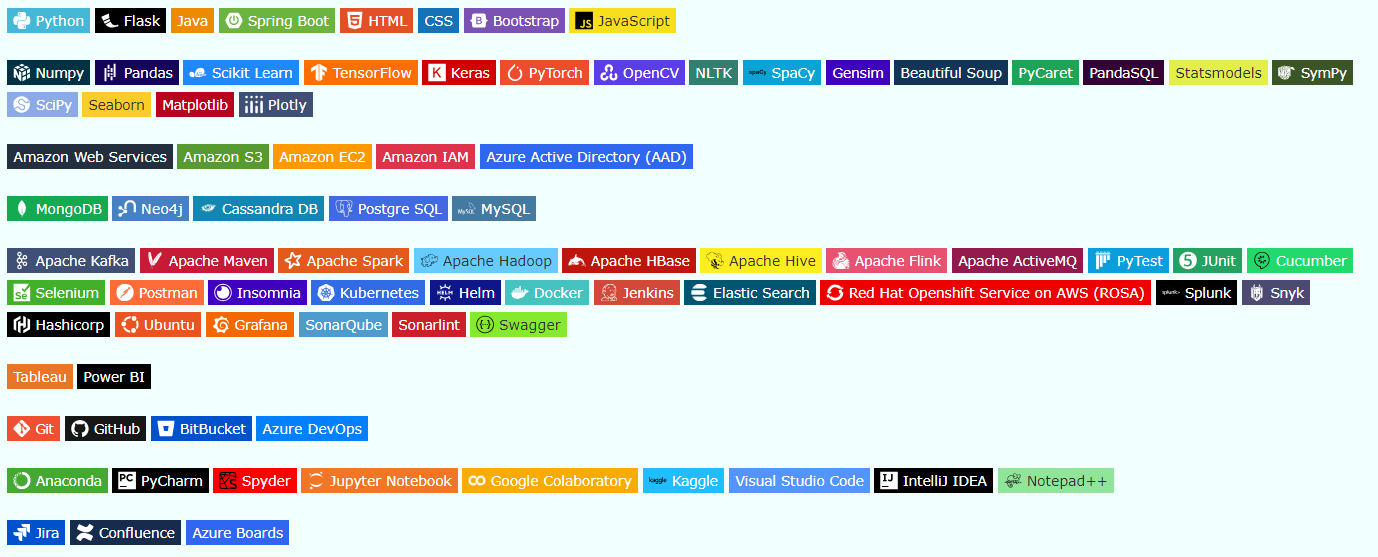
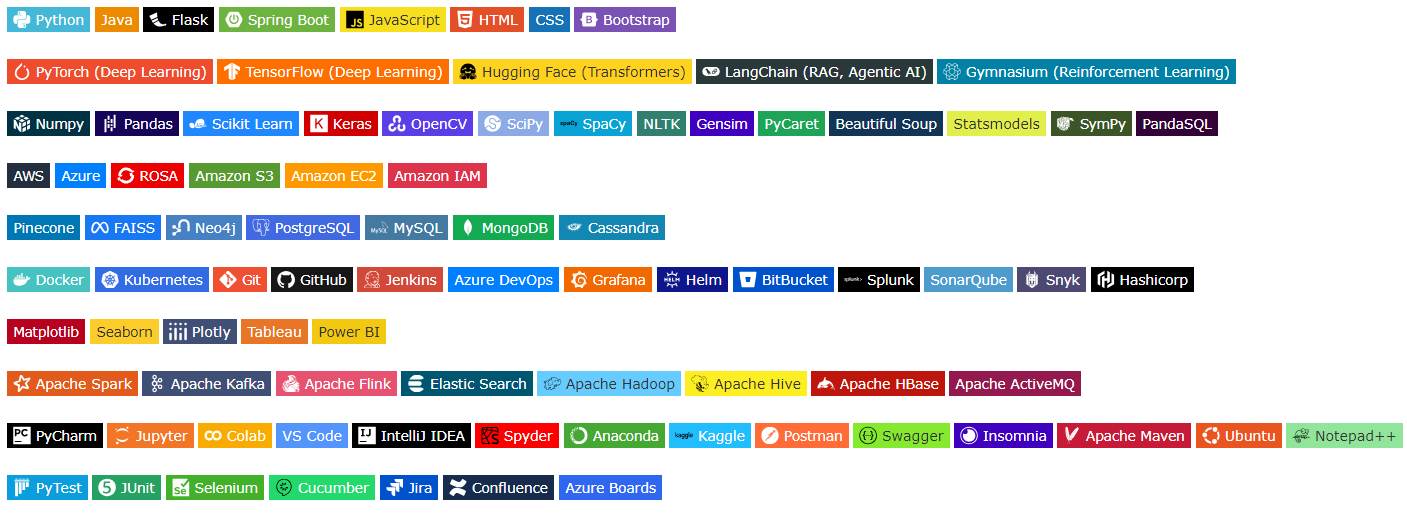
[patch] Updated skills and README.md.

diff --git a/documents/Tools And Technologies.md b/documents/Tools And Technologies.md
@@ -1,101 +1,127 @@
-<h2 align="left">Tools and Technologies</h2>
+<h2 align="left">Tools & Technologies</h2>
+
+[//]: # (<h4 align="left">Programming Languages & Frameworks</h4>)
 <p>
     <img alt="Python" src="https://img.shields.io/badge/-Python-45b8d8?style=flat-square&logo=python&logoColor=white" />
-    <img alt="Flask" src="https://img.shields.io/badge/-Flask-000000?style=flat-square&logo=flask&logoColor=white" />
     <img alt="Java" src="https://img.shields.io/badge/-Java-ED8B00?style=flat-square&logo=java&logoColor=white" />
+    <img alt="Flask" src="https://img.shields.io/badge/-Flask-000000?style=flat-square&logo=flask&logoColor=white" />
     <img alt="Spring Boot" src="https://img.shields.io/badge/-Spring_Boot-6DB33F?style=flat-square&logo=spring-boot&logoColor=white" />
-    <img alt="Hyper Text Markup Language (HTML)" src="https://img.shields.io/badge/-HTML-E34F26?style=flat-square&logo=html5&logoColor=white" />
-    <img alt="Cascading Style Sheets (CSS)" src="https://img.shields.io/badge/-CSS-1572B6?style=flat-square&logo=css3&logoColor=white" />
-    <img alt="Bootstrap" src="https://img.shields.io/badge/-Bootstrap-7952B3?style=flat-square&logo=bootstrap&logoColor=white" />
     <img alt="JavaScript (JS)" src="https://img.shields.io/badge/-JavaScript-F7DF1E?style=flat-square&logo=javascript&logoColor=black" />
+    <img alt="HTML" src="https://img.shields.io/badge/-HTML-E34F26?style=flat-square&logo=html5&logoColor=white" />
+    <img alt="CSS" src="https://img.shields.io/badge/-CSS-1572B6?style=flat-square&logo=css3&logoColor=white" />
+    <img alt="Bootstrap" src="https://img.shields.io/badge/-Bootstrap-7952B3?style=flat-square&logo=bootstrap&logoColor=white" />
 </p>
+
+[//]: # (<h4 align="left">Core AI/ML Frameworks</h4>)
+<p>
+    <img alt="PyTorch" src="https://img.shields.io/badge/-PyTorch_(Deep_Learning)-EE4C2C?style=flat-square&logo=pytorch&logoColor=white" />
+    <img alt="TensorFlow" src="https://img.shields.io/badge/-TensorFlow_(Deep_Learning)-FF6F00?style=flat-square&logo=tensorflow&logoColor=white" />
+    <img alt="Hugging Face" src="https://img.shields.io/badge/-Hugging_Face_(Transformers)-FFD21E?style=flat-square&logo=hugging-face&logoColor=black" />
+    <img alt="LangChain" src="https://img.shields.io/badge/-LangChain_(RAG,_Agentic_AI)-2A3839?style=flat-square&logo=langchain&logoColor=white" />
+    <img alt="OpenAI Gymnasium" src="https://img.shields.io/badge/-Gymnasium_(Reinforcement_Learning)-0081A5?style=flat-square&logo=openaigym&logoColor=white" />
+</p>
+
+[//]: # (<h4 align="left">AI/ML Libraries</h4>)
 <p>
     <img alt="Numpy" src="https://img.shields.io/badge/-Numpy-013243?style=flat-square&logo=numpy&logoColor=white" />
     <img alt="Pandas" src="https://img.shields.io/badge/-Pandas-150458?style=flat-square&logo=pandas&logoColor=white" />
     <img alt="Scikit-Learn" src="https://img.shields.io/badge/-Scikit_Learn-2088FF?style=flat-square&logo=scikit-learn&logoColor=white" />
-    <img alt="TensorFlow" src="https://img.shields.io/badge/-TensorFlow-FF6F00?style=flat-square&logo=tensorflow&logoColor=white" />
     <img alt="Keras" src="https://img.shields.io/badge/-Keras-D00000?style=flat-square&logo=keras&logoColor=white" />
-    <img alt="PyTorch" src="https://img.shields.io/badge/-PyTorch-EE4C2C?style=flat-square&logo=pytorch&logoColor=white" />
     <img alt="OpenCV" src="https://img.shields.io/badge/-OpenCV-5C3EE8?style=flat-square&logo=opencv&logoColor=white" />
-    <img alt="Natural Language Toolkit (NLTK)" src="https://img.shields.io/badge/-NLTK-317F6F?style=flat-square&logo=nltk&logoColor=white" />
+    <img alt="SciPy" src="https://img.shields.io/badge/-SciPy-8CAAE6?style=flat-square&logo=scipy&logoColor=white" />
     <img alt="SpaCy" src="https://img.shields.io/badge/-SpaCy-09A3D5?style=flat-square&logo=spacy&logoColor=black" />
+    <img alt="NLTK" src="https://img.shields.io/badge/-NLTK-317F6F?style=flat-square&logo=nltk&logoColor=white" />
     <img alt="Gensim" src="https://img.shields.io/badge/-Gensim-4000BF?style=flat-square&logo=gensim&logoColor=white" />
-    <img alt="Beautiful Soup" src="https://img.shields.io/badge/-Beautiful_Soup-123456?style=flat-square&logo=beautifulsoup&logoColor=white" />
     <img alt="PyCaret" src="https://img.shields.io/badge/-PyCaret-1DA456?style=flat-square&logo=pycaret&logoColor=white" />
-    <img alt="PandaSQL" src="https://img.shields.io/badge/-PandaSQL-330338?style=flat-square&logo=pandasql&logoColor=white" />
+    <img alt="Beautiful Soup" src="https://img.shields.io/badge/-Beautiful_Soup-123456?style=flat-square&logo=beautifulsoup&logoColor=white" />
     <img alt="Statsmodels" src="https://img.shields.io/badge/-Statsmodels-E2EE4A?style=flat-square&logo=statsmodels&logoColor=white" />
     <img alt="SymPy" src="https://img.shields.io/badge/-SymPy-3B5526?style=flat-square&logo=sympy&logoColor=white" />
-    <img alt="SciPy" src="https://img.shields.io/badge/-SciPy-8CAAE6?style=flat-square&logo=scipy&logoColor=white" />
-    <img alt="Seaborn" src="https://img.shields.io/badge/-Seaborn-FCCD2A?style=flat-square&logo=seaborn&logoColor=white" />
-    <img alt="Matplotlib" src="https://img.shields.io/badge/-Matplotlib-B8001F?style=flat-square&logo=matplotlib&logoColor=white" />
-    <img alt="Plotly" src="https://img.shields.io/badge/-Plotly-3F4F75?style=flat-square&logo=plotly&logoColor=white" />
+    <img alt="PandaSQL" src="https://img.shields.io/badge/-PandaSQL-330338?style=flat-square&logo=pandasql&logoColor=white" />
 </p>
+
+[//]: # (<h4 align="left">Cloud</h4>)
 <p>
-    <img alt="Amazon Web Services (AWS)" src="https://img.shields.io/badge/-Amazon_Web_Services-232F3E?style=flat-square&logo=amazon-web-services&logoColor=white" />
+    <img alt="Amazon Web Services (AWS)" src="https://img.shields.io/badge/-AWS-232F3E?style=flat-square&logo=amazon-web-services&logoColor=white" />
+    <img alt="Azure" src="https://img.shields.io/badge/-Azure-007fff?style=flat-square&logo=microsoftazure&logoColor=white" />
+    <img alt="Red Hat Openshift Service on AWS (ROSA)" src="https://img.shields.io/badge/-ROSA-EE0000?style=flat-square&logo=redhatopenshift&logoColor=white" />
     <img alt="Amazon S3" src="https://img.shields.io/badge/-Amazon_S3-569A31?style=flat-square&logo=amazons3&logoColor=white"/>
     <img alt="Amazon EC2" src="https://img.shields.io/badge/-Amazon_EC2-FF9900?style=flat-square&logo=amazonec2&logoColor=black"/>
     <img alt="Amazon IAM" src="https://img.shields.io/badge/-Amazon_IAM-DD344C?style=flat-square&logo=amazoniam&logoColor=black"/>
-    <img alt="Azure Active Directory (AAD)" src="https://img.shields.io/badge/-Azure_Active_Directory_(AAD)-3067F0?style=flat-square&logo=azureactivedirectory&logoColor=black"/>
 </p>
+
+[//]: # (<h4 align="left">Databases</h4>)
 <p>
-    <img alt="MongoDB" src="https://img.shields.io/badge/-MongoDB-13aa52?style=flat-square&logo=mongodb&logoColor=white" />
+    <img alt="Pinecone" src="https://img.shields.io/badge/-Pinecone-0077B5?style=flat-square&logo=pinecone&logoColor=white" />
+    <img alt="FAISS" src="https://img.shields.io/badge/-FAISS-1877F2?style=flat-square&logo=meta&logoColor=white" />
     <img alt="Neo4j" src="https://img.shields.io/badge/-Neo4j-4581C3?style=flat-square&logo=neo4j&logoColor=white" />
-    <img alt="Apache Cassandra DB" src="https://img.shields.io/badge/-Cassandra_DB-1287B1?style=flat-square&logo=apachecassandra&logoColor=white" />
-    <img alt="PostgreSQL" src="https://img.shields.io/badge/-Postgre_SQL-4169E1?style=flat-square&logo=postgresql&logoColor=white" />
+    <img alt="PostgreSQL" src="https://img.shields.io/badge/-PostgreSQL-4169E1?style=flat-square&logo=postgresql&logoColor=white" />
     <img alt="MySQL" src="https://img.shields.io/badge/-MySQL-4479A1?style=flat-square&logo=mysql&logoColor=white" />
+    <img alt="MongoDB" src="https://img.shields.io/badge/-MongoDB-13aa52?style=flat-square&logo=mongodb&logoColor=white" />
+    <img alt="Apache Cassandra" src="https://img.shields.io/badge/-Cassandra-1287B1?style=flat-square&logo=apachecassandra&logoColor=white" />
 </p>
+
+[//]: # (<h4 align="left">DevOps & Observability</h4>)
 <p>
-    <img alt="Apache Kafka" src="https://img.shields.io/badge/-Apache_Kafka-3F4F75?style=flat-square&logo=apache-kafka&logoColor=white" />
-    <img alt="Apache Maven" src="https://img.shields.io/badge/-Apache_Maven-C71A36?style=flat-square&logo=apache-maven&logoColor=white" />
-    <img alt="Apache Spark" src="https://img.shields.io/badge/-Apache_Spark-E25A1C?style=flat-square&logo=apachespark&logoColor=white" />
-    <img alt="Apache Hadoop" src="https://img.shields.io/badge/-Apache_Hadoop-66CCFF?style=flat-square&logo=apachehadoop&logoColor=black" />
-    <img alt="Apache HBase" src="https://img.shields.io/badge/-Apache_HBase-BE160C?style=flat-square&logo=apachehbase&logoColor=white" />
-    <img alt="Apache Hive" src="https://img.shields.io/badge/-Apache_Hive-FDEE21?style=flat-square&logo=apachehive&logoColor=black" />
-    <img alt="Apache Flink" src="https://img.shields.io/badge/-Apache_Flink-E6526F?style=flat-square&logo=apacheflink&logoColor=white" />
-    <img alt="Apache Active MQ" src="https://img.shields.io/badge/-Apache_ActiveMQ-941a4d?style=flat-square&logo=apacheactivemq&logoColor=white" />
-    <img alt="PyTest" src="https://img.shields.io/badge/-PyTest-0A9EDC?style=flat-square&logo=pytest&logoColor=white" />
-    <img alt="JUnit" src="https://img.shields.io/badge/-JUnit-25A162?style=flat-square&logo=junit5&logoColor=white" />
-    <img alt="Cucumber" src="https://img.shields.io/badge/-Cucumber-23D96C?style=flat-square&logo=cucumber&logoColor=black" />
-    <img alt="Selenium" src="https://img.shields.io/badge/-Selenium-43B02A?style=flat-square&logo=selenium&logoColor=white" />
-    <img alt="Postman" src="https://img.shields.io/badge/-Postman-FF6C37?style=flat-square&logo=postman&logoColor=white" />
-    <img alt="Insomnia" src="https://img.shields.io/badge/-Insomnia-4000BF?style=flat-square&logo=insomnia&logoColor=white" />
-    <img alt="Kubernetes" src="https://img.shields.io/badge/-Kubernetes-326CE5?style=flat-square&logo=kubernetes&logoColor=white" />
-    <img alt="Helm" src="https://img.shields.io/badge/-Helm-0F1689?style=flat-square&logo=helm&logoColor=white" />
     <img alt="Docker" src="https://img.shields.io/badge/-Docker-46c2c1?style=flat-square&logo=docker&logoColor=white" />
-    <img alt="Jenkins" src="https://img.shields.io/badge/-Jenkins-D24939?style=flat-square&logo=jenkins&logoColor=white" />
-    <img alt="Elastic Search" src="https://img.shields.io/badge/-Elastic_Search-005571?style=flat-square&logo=elasticsearch&logoColor=white" />
-    <img alt="Red Hat Openshift Service on AWS (ROSA)" src="https://img.shields.io/badge/-Red_Hat_Openshift_Service_on_AWS_(ROSA)-EE0000?style=flat-square&logo=redhatopenshift&logoColor=white" />
-    <img alt="Splunk" src="https://img.shields.io/badge/-Splunk-000000?style=flat-square&logo=splunk&logoColor=white" />
-    <img alt="Snyk" src="https://img.shields.io/badge/-Snyk-4C4A73?style=flat-square&logo=snyk&logoColor=white" />
-    <img alt="Hashicorp" src="https://img.shields.io/badge/-Hashicorp-000000?style=flat-square&logo=hashicorp&logoColor=white" />
-    <img alt="Ubuntu" src="https://img.shields.io/badge/-Ubuntu-E95420?style=flat-square&logo=ubuntu&logoColor=white" />
-    <img alt="Grafana" src="https://img.shields.io/badge/-Grafana-F46800?style=flat-square&logo=grafana&logoColor=white" />
-    <img alt="SonarQube" src="https://img.shields.io/badge/-SonarQube-4E9BCD?style=flat-square&logo=sonarqube&logoColor=white" />
-    <img alt="Sonarlint" src="https://img.shields.io/badge/-Sonarlint-CB2029?style=flat-square&logo=sonarlint&logoColor=white" />
-    <img alt="Swagger" src="https://img.shields.io/badge/-Swagger-85EA2D?style=flat-square&logo=swagger&logoColor=black" />
-</p>
-<p>
-    <img alt="Tableau" src="https://img.shields.io/badge/-Tableau-E97627?style=flat-square&logo=tableau&logoColor=white" />
-    <img alt="Power BI" src="https://img.shields.io/badge/-Power_BI-000000?style=flat-square&logo=powerbi&logoColor=white" />
-</p>
-<p>
+    <img alt="Kubernetes" src="https://img.shields.io/badge/-Kubernetes-326CE5?style=flat-square&logo=kubernetes&logoColor=white" />
     <img alt="Git" src="https://img.shields.io/badge/-Git-F05032?style=flat-square&logo=git&logoColor=white" />
     <img alt="GitHub" src="https://img.shields.io/badge/-GitHub-181717?style=flat-square&logo=github&logoColor=white" />
-    <img alt="BitBucket" src="https://img.shields.io/badge/-BitBucket-0052CC?style=flat-square&logo=bitbucket&logoColor=white" />
+    <img alt="Jenkins" src="https://img.shields.io/badge/-Jenkins-D24939?style=flat-square&logo=jenkins&logoColor=white" />
     <img alt="Azure DevOps (ADO)" src="https://img.shields.io/badge/-Azure_DevOps-007fff?style=flat-square&logo=azuredevops&logoColor=white" />
+    <img alt="Grafana" src="https://img.shields.io/badge/-Grafana-F46800?style=flat-square&logo=grafana&logoColor=white" />
+    <img alt="Helm" src="https://img.shields.io/badge/-Helm-0F1689?style=flat-square&logo=helm&logoColor=white" />
+    <img alt="BitBucket" src="https://img.shields.io/badge/-BitBucket-0052CC?style=flat-square&logo=bitbucket&logoColor=white" />
+    <img alt="Splunk" src="https://img.shields.io/badge/-Splunk-000000?style=flat-square&logo=splunk&logoColor=white" />
+    <img alt="SonarQube" src="https://img.shields.io/badge/-SonarQube-4E9BCD?style=flat-square&logo=sonarqube&logoColor=white" />
+    <img alt="Snyk" src="https://img.shields.io/badge/-Snyk-4C4A73?style=flat-square&logo=snyk&logoColor=white" />
+    <img alt="Hashicorp" src="https://img.shields.io/badge/-Hashicorp-000000?style=flat-square&logo=hashicorp&logoColor=white" />
 </p>
+
+[//]: # (<h4 align="left">Visualisation</h4>)
 <p>
-    <img alt="Anaconda" src="https://img.shields.io/badge/-Anaconda-44A833?style=flat-square&logo=anaconda&logoColor=white" />
+    <img alt="Matplotlib" src="https://img.shields.io/badge/-Matplotlib-B8001F?style=flat-square&logo=matplotlib&logoColor=white" />
+    <img alt="Seaborn" src="https://img.shields.io/badge/-Seaborn-FCCD2A?style=flat-square&logo=seaborn&logoColor=white" />
+    <img alt="Plotly" src="https://img.shields.io/badge/-Plotly-3F4F75?style=flat-square&logo=plotly&logoColor=white" />
+    <img alt="Tableau" src="https://img.shields.io/badge/-Tableau-E97627?style=flat-square&logo=tableau&logoColor=white" />
+    <img alt="Power BI" src="https://img.shields.io/badge/-Power_BI-F2C811?style=flat-square&logo=powerbi&logoColor=black" />
+</p>
+
+[//]: # (<h4 align="left">Big Data & Streaming</h4>)
+<p>
+    <img alt="Apache Spark" src="https://img.shields.io/badge/-Apache_Spark-E25A1C?style=flat-square&logo=apachespark&logoColor=white" />
+    <img alt="Apache Kafka" src="https://img.shields.io/badge/-Apache_Kafka-3F4F75?style=flat-square&logo=apache-kafka&logoColor=white" />
+    <img alt="Apache Flink" src="https://img.shields.io/badge/-Apache_Flink-E6526F?style=flat-square&logo=apacheflink&logoColor=white" />
+    <img alt="Elastic Search" src="https://img.shields.io/badge/-Elastic_Search-005571?style=flat-square&logo=elasticsearch&logoColor=white" />
+    <img alt="Apache Hadoop" src="https://img.shields.io/badge/-Apache_Hadoop-66CCFF?style=flat-square&logo=apachehadoop&logoColor=black" />
+    <img alt="Apache Hive" src="https://img.shields.io/badge/-Apache_Hive-FDEE21?style=flat-square&logo=apachehive&logoColor=black" />
+    <img alt="Apache HBase" src="https://img.shields.io/badge/-Apache_HBase-BE160C?style=flat-square&logo=apachehbase&logoColor=white" />
+    <img alt="Apache Active MQ" src="https://img.shields.io/badge/-Apache_ActiveMQ-941a4d?style=flat-square&logo=apacheactivemq&logoColor=white" />
+</p>
+
+[//]: # (<h4 align="left">Development Tools</h4>)
+<p>
     <img alt="PyCharm" src="https://img.shields.io/badge/-PyCharm-000000?style=flat-square&logo=pycharm&logoColor=white" />
-    <img alt="Spyder" src="https://img.shields.io/badge/-Spyder-FF0000?style=flat-square&logo=spyder-ide&logoColor=black" />
-    <img alt="Jupyter Notebook" src="https://img.shields.io/badge/-Jupyter_Notebook-F37626?style=flat-square&logo=jupyter&logoColor=white" />
-    <img alt="Google Colaboratory" src="https://img.shields.io/badge/-Google_Colaboratory-F9AB00?style=flat-square&logo=googlecolab&logoColor=white" />
-    <img alt="Kaggle" src="https://img.shields.io/badge/-Kaggle-20BEFF?style=flat-square&logo=kaggle&logoColor=black" />
-    <img alt="Visual Studio Code" src="https://img.shields.io/badge/-Visual_Studio_Code-5395FD?style=flat-square&logo=visual-studio-code&logoColor=white" />
+    <img alt="Jupyter Notebook" src="https://img.shields.io/badge/-Jupyter-F37626?style=flat-square&logo=jupyter&logoColor=white" />
+    <img alt="Google Colaboratory" src="https://img.shields.io/badge/-Colab-F9AB00?style=flat-square&logo=googlecolab&logoColor=white" />
+    <img alt="Visual Studio Code" src="https://img.shields.io/badge/-VS_Code-5395FD?style=flat-square&logo=visual-studio-code&logoColor=white" />
     <img alt="IntelliJ IDEA" src="https://img.shields.io/badge/-IntelliJ_IDEA-000000?style=flat-square&logo=intellij-idea&logoColor=white" />
+    <img alt="Spyder" src="https://img.shields.io/badge/-Spyder-FF0000?style=flat-square&logo=spyder-ide&logoColor=black" />
+    <img alt="Anaconda" src="https://img.shields.io/badge/-Anaconda-44A833?style=flat-square&logo=anaconda&logoColor=white" />
+    <img alt="Kaggle" src="https://img.shields.io/badge/-Kaggle-20BEFF?style=flat-square&logo=kaggle&logoColor=black" />
+    <img alt="Postman" src="https://img.shields.io/badge/-Postman-FF6C37?style=flat-square&logo=postman&logoColor=white" />
+    <img alt="Swagger" src="https://img.shields.io/badge/-Swagger-85EA2D?style=flat-square&logo=swagger&logoColor=black" />
+    <img alt="Insomnia" src="https://img.shields.io/badge/-Insomnia-4000BF?style=flat-square&logo=insomnia&logoColor=white" />
+    <img alt="Apache Maven" src="https://img.shields.io/badge/-Apache_Maven-C71A36?style=flat-square&logo=apache-maven&logoColor=white" />
+    <img alt="Ubuntu" src="https://img.shields.io/badge/-Ubuntu-E95420?style=flat-square&logo=ubuntu&logoColor=white" />
     <img alt="Notepad ++" src="https://img.shields.io/badge/-Notepad++-90E59A?style=flat-square&logo=notepadplusplus&logoColor=black" />
 </p>
+
+[//]: # (<h4 align="left">Testing & Collaboration</h4>)
 <p>
+    <img alt="PyTest" src="https://img.shields.io/badge/-PyTest-0A9EDC?style=flat-square&logo=pytest&logoColor=white" />
+    <img alt="JUnit" src="https://img.shields.io/badge/-JUnit-25A162?style=flat-square&logo=junit5&logoColor=white" />
+    <img alt="Selenium" src="https://img.shields.io/badge/-Selenium-43B02A?style=flat-square&logo=selenium&logoColor=white" />
+    <img alt="Cucumber" src="https://img.shields.io/badge/-Cucumber-23D96C?style=flat-square&logo=cucumber&logoColor=black" />
     <img alt="Jira" src="https://img.shields.io/badge/-Jira-0052CC?style=flat-square&logo=jira&logoColor=white" />
     <img alt="Confluence" src="https://img.shields.io/badge/-Confluence-172B4D?style=flat-square&logo=confluence&logoColor=white" />
     <img alt="Azure Boards" src="https://img.shields.io/badge/-Azure_Boards-3067F0?style=flat-square&logo=azureboards&logoColor=white" />

diff --git a/README.md b/README.md
@@ -12,35 +12,43 @@
 
 ## 🔭 What I'm Working On
 
-| Project                                                                                                     | Description                      |
-|:------------------------------------------------------------------------------------------------------------|:---------------------------------|
-| 🚀 [The-Neural-Nexus](https://github.com/AdityaSreevatsaK/The-Neural-Nexus)                                 | Cutting-Edge Deep Learning Lab   |
-| 🧠 [NLP-Navigator](https://github.com/AdityaSreevatsaK/NLP-Navigator)                                       | Real-World NLP Applications      |
-| 🎯 [Suggestify-RecommendationSystems](https://github.com/AdityaSreevatsaK/Suggestify-RecommendationSystems) | Scalable Recommender Engines     |
-| 📊 [DS-ML-Playground](https://github.com/AdityaSreevatsaK/DS-ML-Playground)                                 | Diverse ML Problem Solving       |
-| 🧪 [Applied-AI-Lab](https://github.com/AdityaSreevatsaK/Applied-AI-Lab)                                     | End-to-End AI/ML Experimentation |
-| ⚙ [PySpark-Pipeline](https://github.com/AdityaSreevatsaK/PySpark-Pipeline)                                 | Big Data ML with PySpark         |
-| 🍃 [MongoDB-Mechanics](https://github.com/AdityaSreevatsaK/MongoDB-Mechanics)                               | NoSQL Data Handling for ML       |
-| 🐍 [100DaysOfCode-Python](https://github.com/AdityaSreevatsaK/100DaysOfCode_Python)                         | Rapid Python Mastery Journey     |
-| 🛠 [Useful-Code-Snippets](https://github.com/AdityaSreevatsaK/Useful-Code-Snippets)                        | Production-Ready Code Boosters   |
+| Project                                                                                                     | Description                                                      |
+|:------------------------------------------------------------------------------------------------------------|:-----------------------------------------------------------------|
+| 🤖 [RAG-Foundry](https://github.com/AdityaSreevatsaK/RAG-Foundry)                                           | Forging practical Retrieval-Augmented Generation (RAG) pipelines |
+| 🚀 [The-Neural-Nexus](https://github.com/AdityaSreevatsaK/The-Neural-Nexus)                                 | Cutting-Edge Deep Learning Lab                                   |
+| 🧠 [NLP-Navigator](https://github.com/AdityaSreevatsaK/NLP-Navigator)                                       | Real-World NLP Applications                                      |
+| ⚙ [PySpark-Pipeline](https://github.com/AdityaSreevatsaK/PySpark-Pipeline)                                 | Big Data ML with PySpark                                         |
+| 🎯 [Suggestify-RecommendationSystems](https://github.com/AdityaSreevatsaK/Suggestify-RecommendationSystems) | Scalable Recommender Engines                                     |
+| 🧪 [Applied-AI-Lab](https://github.com/AdityaSreevatsaK/Applied-AI-Lab)                                     | End-to-End AI/ML Experimentation                                 |
+| 📊 [DS-ML-Playground](https://github.com/AdityaSreevatsaK/DS-ML-Playground)                                 | Diverse ML Problem Solving                                       |
+| 🍃 [MongoDB-Mechanics](https://github.com/AdityaSreevatsaK/MongoDB-Mechanics)                               | NoSQL Data Handling for ML                                       |
+| 🐍 [100DaysOfCode-Python](https://github.com/AdityaSreevatsaK/100DaysOfCode_Python)                         | Rapid Python Mastery Journey                                     |
+| 🛠 [Useful-Code-Snippets](https://github.com/AdityaSreevatsaK/Useful-Code-Snippets)                        | Production-Ready Code Boosters                                   |
 
 ---
 
 ## 📌 Highlights
 
-- 🎯 Pursuing MTech in Data Science, Machine Learning & Artificial Intelligence
-- 🧪 Research focus in Smart Mobility, Computer Vision, and Reinforcement Learning
-- 🛠 Building end-to-end Machine Learning systems
-- 🌟 Passionate about clean code and scalable solutions
+* 🎯 Specialising in **Generative AI** and **Agentic AI**, with a focus on building autonomous systems for financial
+  analysis (`AlphaAgent`) and urban mobility (`SmartFlow`).
+* 🛠 Skilled in **productionising machine learning models**, from building on live **Kafka** streams to deploying and
+  scaling with **Docker** and **Kubernetes**.
+* 🏢 Proven track record of delivering AI/ML solutions in large-scale **enterprise environments** within the financial
+  services and energy sectors.
+* 🌟 Committed to engineering excellence with a passion for writing **clean, scalable, and production-ready code**.
 
 ---
 
 ## 🧠 Core Expertise
 
-- Applied Machine Learning & Deep Learning
-- NLP, Computer Vision, Time Series, Reinforcement Learning
-- Model Deployment, MLOps, CI/CD Pipelines
-- Data Engineering with Big Data Tools (Kafka, Spark, Elasticsearch)
+* **Generative AI & NLP:** Specialising in building and deploying advanced systems using LLMs, Retrieval-Augmented
+  Generation (RAG), and Agentic AI frameworks.
+* **Deep Learning & Applied ML:** Deeply versed in Deep Learning (PyTorch, TensorFlow) and a range of ML domains
+  including Reinforcement Learning, Computer Vision, and Recommender Systems.
+* **End-to-End MLOps:** Experienced in the full model lifecycle, including containerisation (Docker), orchestration (
+  Kubernetes), CI/CD pipelines, and cloud deployment (AWS, Azure).
+* **Big Data & Real-Time Processing:** Skilled in engineering scalable data pipelines for machine learning using Apache
+  Spark, Apache Kafka, and distributed systems.
 
 ---
 
@@ -48,24 +56,19 @@
 
 <img src="documents/ToolsAndTechnologies.png" width="100%"/>
 
-- **Frameworks:** PyTorch, TensorFlow, Scikit-learn, XGBoost
-- **DevOps:** Docker, Kubernetes, Jenkins
-- **Cloud:** AWS (EC2, S3, SageMaker), GCP (Vertex AI)
-- **Data:** SQL, MongoDB, Airflow, Spark, Kafka
-
 ---
 
 ## 🧪 Research & Innovation
 
-- 📄 Working on Deep Reinforcement Learning, Computer Vision, and Explainable AI projects.
-- 🧠 Author of two XAI papers (under review):  
-  - *A Concise Survey of Explainable AI (XAI) Techniques – Methods, Applications, and Challenges*  
-  - *Domain-Aligned Framework for Explainable AI: Matching Techniques to Application Needs (DAX Framework)*
-- 📌 Exploring hybrid frameworks combining Machine Learning and Operations Research.
-- 🧬 Passionate about bridging theory and real-world applications.
+* 📄 Architecting **AlphaAgent**, an autonomous financial analyst that integrates Retrieval-Augmented Generation (RAG)
+  with quantitative tools.
+* 📄 Developing **SmartFlow**, a hybrid framework that uses Reinforcement Learning and Agentic AI to optimise urban
+  mobility systems.
+* 📌 Exploring hybrid frameworks that combine Machine Learning with traditional Operations Research for optimised
+  decision-making.
+* 🧬 Passionate about bridging the gap between theoretical research and impactful, real-world applications.
 
 ---
-
 
 ## 📈 GitHub Stats
 
